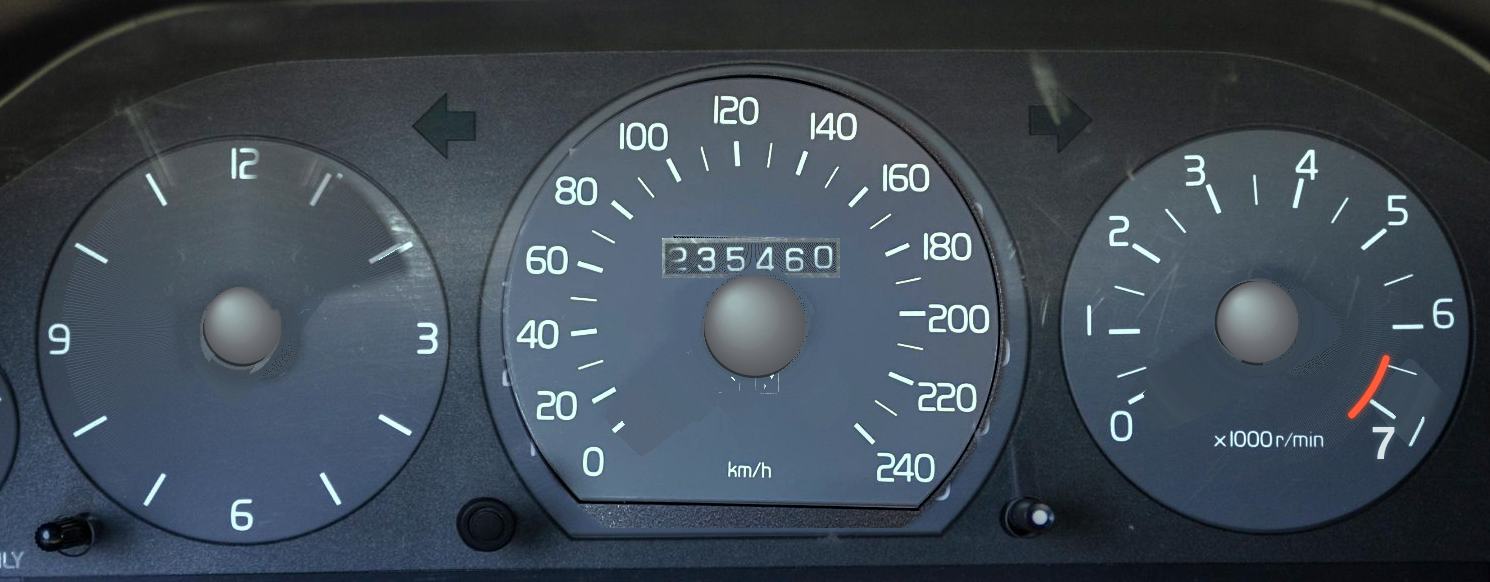
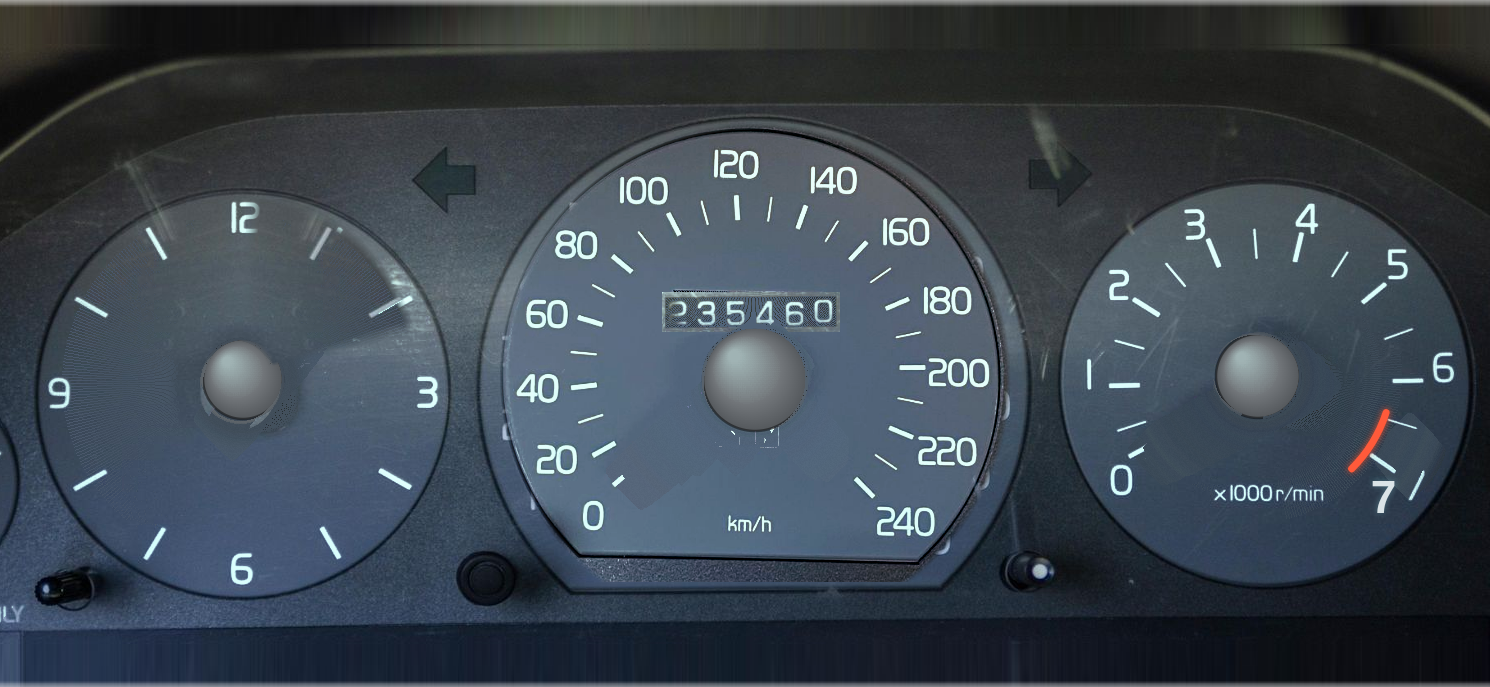
Fill the screen edge to edge; add a fuel readout when the car reports it
The face was still letterboxed: cropped to the three dials it is wider in
proportion than a phone in landscape, so it left bars top and bottom. The
housing rows at the crop's edges are now extended into that space, which
brings the artwork to 1490x687 — the same proportions as the screen — and
the added strips read as more dashboard rather than as bars.

Fuel level joins the readouts, in the housing strip under the
speedometer, and is drawn only when the car actually reports it. This ECU
may well not answer the standard request, and a placeholder that never
fills in is just clutter.

Odometer digits were set far larger and heavier than the ones printed on
the dial, which made the live figure look pasted on; they now sit inside
the window instead of shouting over it.

Bump to 0.18.0.

diff --git a/app/src/main/java/com/volvo960/obdctl/ui/dash/DashboardView.kt b/app/src/main/java/com/volvo960/obdctl/ui/dash/DashboardView.kt
@@ -109,7 +109,7 @@ class DashboardView @JvmOverloads constructor(
     }
     private val digits = Paint(Paint.ANTI_ALIAS_FLAG).apply {
         textAlign = Paint.Align.CENTER
-        typeface = Typeface.create(Typeface.MONOSPACE, Typeface.BOLD)
+        typeface = Typeface.MONOSPACE
     }
     private val glow = Paint(Paint.ANTI_ALIAS_FLAG).apply {
         style = Paint.Style.STROKE
@@ -202,6 +202,12 @@ class DashboardView @JvmOverloads constructor(
         }
         g.voltageRect?.let {
             drawReadout(canvas, it, batteryVolts?.let { v -> "%.1fV".format(v) } ?: "--.-V", batteryVolts != null)
+        }
+        // Fuel level is drawn only when the car actually reports it: this ECU
+        // may well not, and an empty placeholder on the housing would just be
+        // clutter that never fills in.
+        g.fuelRect?.let { rect ->
+            targetFuel?.let { drawReadout(canvas, rect, "${it.toInt()}", true) }
         }
 
         g.speedo?.let { drawDialNeedle(canvas, it, fraction(shownSpeed, 0f, SPEED_MAX), targetSpeed != null) }
@@ -504,10 +510,11 @@ class DashboardView @JvmOverloads constructor(
         if (cells == 0) return
         val cellWidth = rect.width() / cells
         digits.color = digitColor
-        digits.textSize = rect.height() * 1.15f
+        // Sized to sit in the printed window rather than shout over it.
+        digits.textSize = rect.height() * 0.88f
         for ((index, ch) in value.withIndex()) {
             val x = rect.left + cellWidth * (index + 0.5f)
-            canvas.drawText(ch.toString(), x, rect.centerY() + digits.textSize * 0.36f, digits)
+            canvas.drawText(ch.toString(), x, rect.centerY() + digits.textSize * 0.35f, digits)
             if (drawWindow && index < cells - 1) {
                 stroke.color = 0xFF14191B.toInt()
                 stroke.strokeWidth = rect.height() * 0.05f

diff --git a/app/src/main/java/com/volvo960/obdctl/ui/dash/ClusterAssets.kt b/app/src/main/java/com/volvo960/obdctl/ui/dash/ClusterAssets.kt
@@ -65,6 +65,7 @@ class ClusterAssets private constructor(
         /** Where the turn-signal arrows sit; used for the two numeric readouts. */
         val coolantRect: RectF?,
         val voltageRect: RectF?,
+        val fuelRect: RectF?,
     )
 
     companion object {
@@ -138,6 +139,7 @@ class ClusterAssets private constructor(
                 resetKnob = rect("speedo", "resetKnobRect"),
                 coolantRect = rect("readouts", "coolantRect"),
                 voltageRect = rect("readouts", "voltageRect"),
+                fuelRect = rect("readouts", "fuelRect"),
             )
         }
     }
